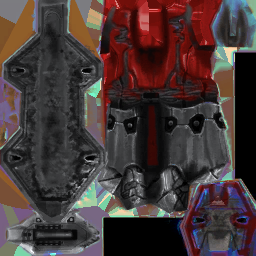
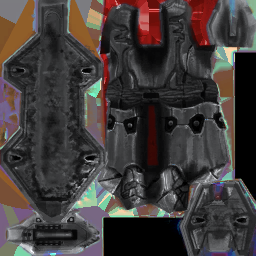
Hunter shoulder plating in steel; Major cannon blue with red shine
- Hunter Major and Ultra: the shield-side shoulder plating gets the same plain-steel treatment as the shield (the mask now covers the left upper arm too).
- Hunter Major's arm cannon: the body is painted the blue Hunter's blue with the red rank's reflection on it (pure red), its green lights kept. The nozzle stays red.

Claude-Session: https://claude.ai/code/session_01Ja8vbkayn83DPTjJrhXLXZ

Changed region(s): [[0.4062, 0.0, 1.0, 0.4062], [0.6875, 0.6875, 1.0, 1.0]]

diff --git a/generator/build_pack.py b/generator/build_pack.py
@@ -890,7 +890,7 @@ def bake_shield(char, mat, tint, outpath):
 _SHIELD_MASK = {}
 
 def hunter_shield_mask(char, mat, size):
-    """the Hunter's shield (the surfaces on its left forearm and hand) as a mask over this texture (W x H, 0..1), its edges
+    """the Hunter's shield and its shoulder plating (the surfaces on its left arm) as a mask over this texture (W x H, 0..1), its edges
     grown a few texels so the island's border is in it; None if the shield isn't on this texture"""
     key = (char, mat, size)
     if key in _SHIELD_MASK: return _SHIELD_MASK[key]
@@ -900,7 +900,7 @@ def hunter_shield_mask(char, mat, size):
     joints, meshes, _ = read_iqm(f'{OUT}/models/{char}/{char}.iqm')
     names = [j[0] for j in joints]
     mats = json.load(open(f'{OUT}/models/{char}/{char}.json'))['meshes']
-    keep = {names.index(n) for n in ('bip01 l forearm', 'bip01 l hand') if n in names}
+    keep = {names.index(n) for n in ('bip01 l upperarm', 'bip01 l forearm', 'bip01 l hand') if n in names}   # its shoulder plating too
     W, H = size
     img = Image.new('L', (W, H), 0); d = ImageDraw.Draw(img)
     for mi, M in enumerate(meshes):
@@ -952,6 +952,15 @@ def bake_hunter(char, mat, mode, outpath):
         k = (shield * (1 - glow))[..., None]
         metal = o.mean(axis=2, keepdims=True) * np.array([0.97, 0.98, 1.0], np.float32)
         o = o * (1 - k) + metal * k
+    if mode == 'red' and mat == 'Hunter_4':
+        # the Major's arm cannon: the body painted the blue Hunter's blue, with the red rank's reflection on it (the
+        # nozzle, on the arm's other texture, is red with the armour)
+        green = np.clip(np.minimum(h - 70, 170 - h) / 15.0, 0, 1) * np.clip((sv - 0.25) / 0.15, 0, 1)   # its lights
+        paint = ndimage.gaussian_filter(1 - green, 0.8)[..., None]
+        blue = np.clip(np.array([0.10, 0.22, 0.62], np.float32) * (0.30 + 1.9 * lum), 0, 1)
+        glint = np.clip(add_shine(char, mat, blue, HUNTER_COLOURS['red']) - blue, 0, 1).max(axis=2, keepdims=True)
+        shone = np.clip(blue + glint * np.array([1.0, 0.12, 0.06], np.float32) * 1.5, 0, 1)    # the reflection pure red
+        o = rgb * (1 - paint) + shone * paint
     if mode == 'white':
         # white paint: the reflection's blue taken out and the plates lifted to a bright off-white, keeping their shading
         g = o.mean(axis=2, keepdims=True)
